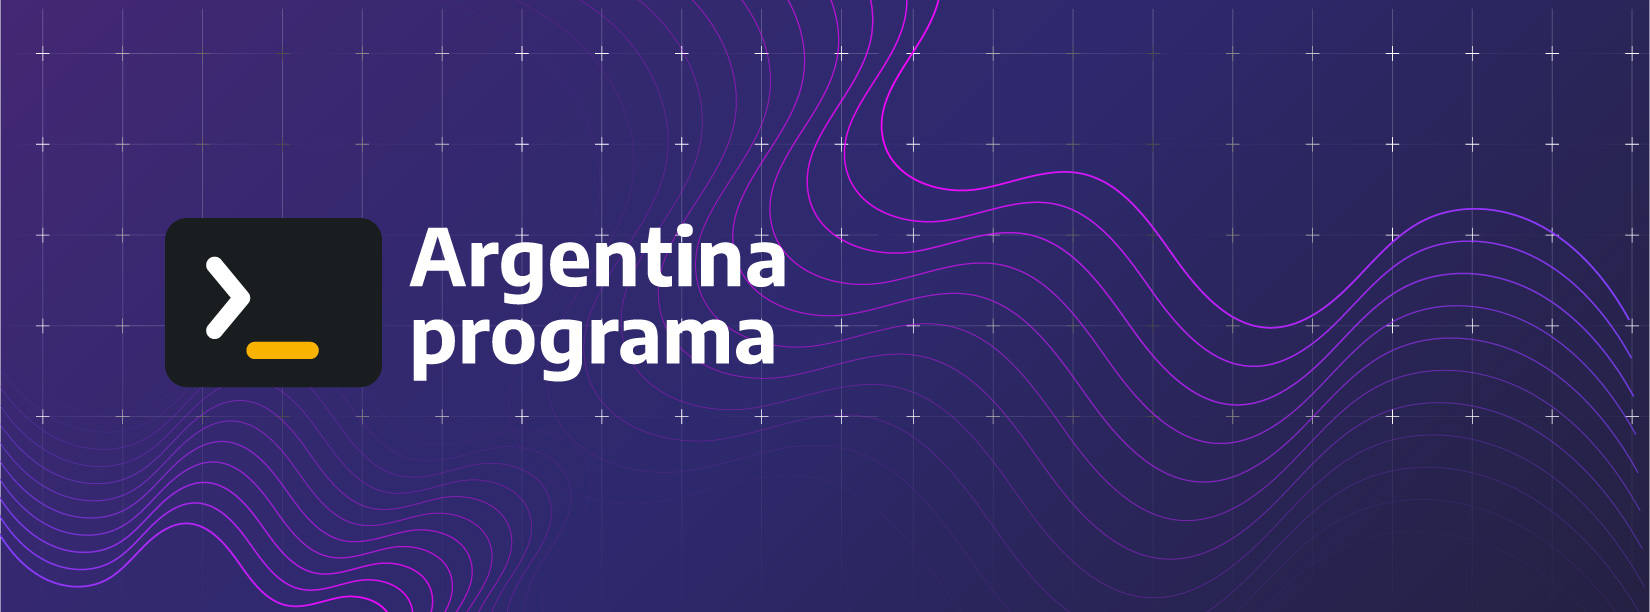
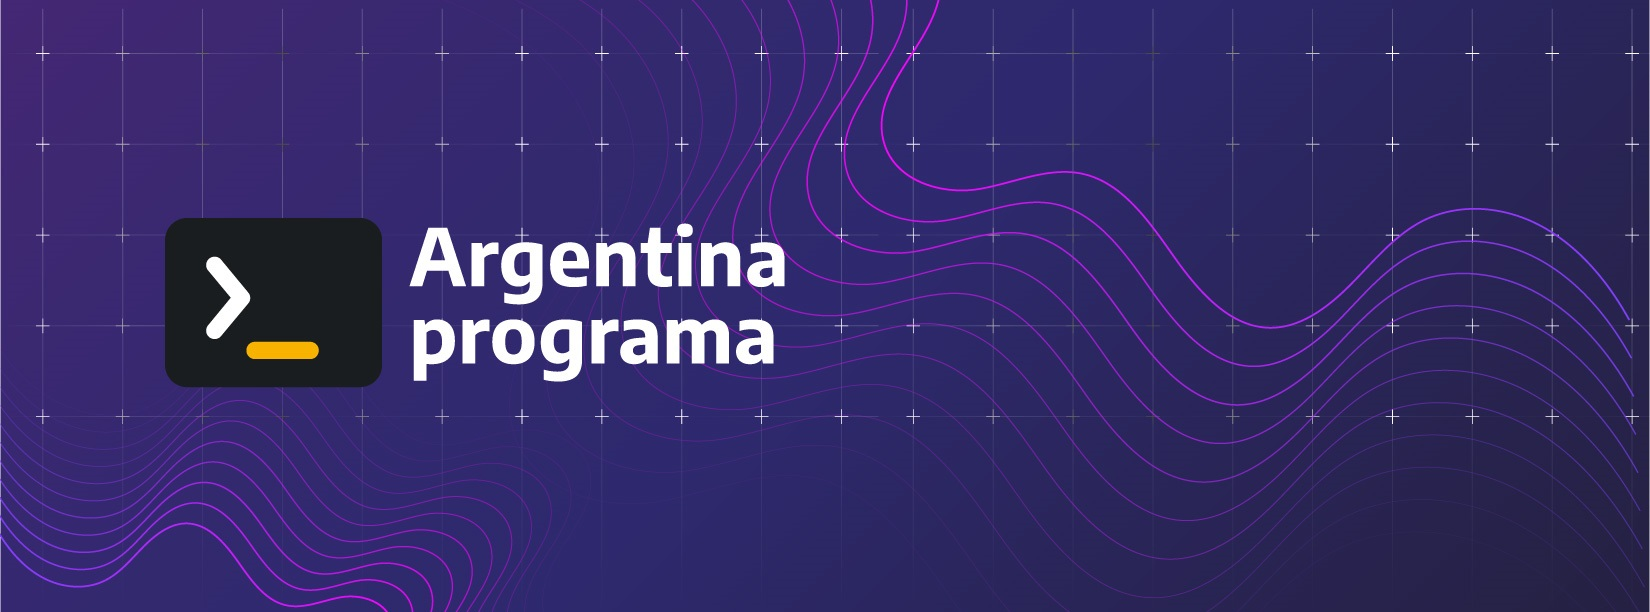
ajustes responsive, 23/12

diff --git a/index.html b/index.html
@@ -9,56 +9,61 @@
     <title>Portfolio Web Oliverio Maranesi</title>
 </head>
 <body>
-    <header>
+  <header>
+      <div class="container-fluid">
+
         <div class="row">
-                <div class="col-6" id="logo">
-                <h4>ARGENTINA PROGRAMA</h4>
-                </div>
+          <div class="col-md-6 col-12" id="logo">
+            <h4>ARGENTINA PROGRAMA</h4>
+          </div>
+          
                 
-                <div class="col-5" id="nav">
-                         <div class="dropdown">
-                        <button class="btn btn-primary btn-sm dropdown-toggle" type="button" data-bs-toggle="dropdown" aria-expanded="false">Mi Portfolio</button>
-                        <ul class="dropdown-menu">
-                            <li><a class="dropdown-item" href="#AcercaDe">Acerca de...</a></li>
-                            <li><a class="dropdown-item" href="#Experiencia">Experiencia laboral</a></li>
-                            <li><a class="dropdown-item" href="#hard&softSkills">hard & soft Skills</a></li>
-                            <li><a class="dropdown-item" href="#Proyectos">Proyectos</a></li>
-                        </div>
-                 
-                        <div class="dropdown">
-                        <button class="btn btn-primary btn-sm dropdown-toggle" type="button" data-bs-toggle="dropdown" aria-expanded="false">CONTACTO</button>
-                        <ul class="dropdown-menu">
-                            <li><a class="dropdown-item" href="#">Mail</a></li>
-                            <li><a class="dropdown-item" href="#">Celular</a></li>
-                            <li><a class="dropdown-item" href="#">WhatsApp</a></li>
-                        </ul>
+          <div class="col-md-6 col-12" id="nav">      
+              <div class="dropdown">
+                    <button class="btn btn-primary btn-sm dropdown-toggle" type="button" data-bs-toggle="dropdown" aria-expanded="false">Mi Portfolio</button>
+                    <ul class="dropdown-menu">
+                        <li><a class="dropdown-item" href="#AcercaDe">Acerca de...</a></li>
+                        <li><a class="dropdown-item" href="#Experiencia">Experiencia laboral</a></li>
+                        <li><a class="dropdown-item" href="#hard&softSkills">hard & soft Skills</a></li>
+                        <li><a class="dropdown-item" href="#Proyectos">Proyectos</a></li>
+                    </ul>
+                  </div>
+                  
+              <div class="dropdown">
+                    <button class="btn btn-primary btn-sm dropdown-toggle" type="button" data-bs-toggle="dropdown" aria-expanded="false">CONTACTO</button>
+                    <ul class="dropdown-menu">
+                        <li><a class="dropdown-item" href="#">Mail</a></li>
+                        <li><a class="dropdown-item" href="#">Celular</a></li>
+                        <li><a class="dropdown-item" href="#">WhatsApp</a></li>
+                      </ul>
                     </div>
-
+                    
                     <div>
-                        <ul class="nav">
-                            <li class="nav-item">
+                      <ul class="nav">
+                        <li class="nav-item">
                                 <a class="nav-link active" aria-current="page" href="login.html" style="color:white">Sign Up</a>
-                            </li>
-                            <li class="nav-item">
-                                <a class="nav-link active" aria-current="page" href="login.html" style="color:white">Sign In</a>
-                            </li>
-                        </ul>
-                        </div>
+                        </li>
+                        <li class="nav-item">
+                          <a class="nav-link active" aria-current="page" href="login.html" style="color:white">Sign In</a>
+                        </li>
+                      </ul>
+                    </div>
+                  </div>
+                  
                 </div>
-
-        </header>
-
-        <section id="banner">
-        <div class="row">
-            <div class="col-12">
-                <img src="banner-ok-argentina-programa.jpg" alt="banner">
-            </div>
+                </header>
+                
+             
+    <section id="banner">
+        <div class="container">
+          <img src="banner-ok-argentina-programa.jpg" alt="banner">
         </div>
+          
     </section>
 
     <section id="AcercaDe">
         <div class="row">
-            <div class="col-6">
+            <div class="col-md-6 col-sm-12">
                 <div class="container my-4 w-100">
 
                     <div id="carouselExampleControls" class="carousel slide" data-ride="carousel">
@@ -68,22 +73,22 @@
                                 <div class="card h-100">
                                     <div class="card-header">
 
-                                        <h5 class="card-title">Card title 1</h5>
+                                        <h5 class="card-title">Acerca de...</h5>
                                     </div>
                                     <img src="abstract-red-fluid-wave-background-free-vector.jpg" class="card-img-top w-100 bg-dark" alt="...">
                                     <div class="card-body">
-                                      <p class="card-text">This is a longer card with supporting text below as a natural lead-in to additional content.</p>
+                                      <p class="card-text">Lorem ipsum dolor sit amet consectetur adipisicing elit. Ipsum libero eveniet eaque earum repellendus</p>
                                     </div>
                                 </div>
                             </div>
                             <div class="carousel-item">
                                 <div class="card h-100">
                                     <div class="card-header">
-                                        <h5 class="card-title">Card title 2</h5>
+                                        <h5 class="card-title">Titulo 2</h5>
                                     </div>
                                     <img src="abstract-red-fluid-wave-background-free-vector.jpg" class="card-img-top w-100" alt="...">
                                     <div class="card-body">
-                                        <p class="card-text">This is a longer card with supporting text below as a natural lead-in to additional content.</p>
+                                        <p class="card-text">Lorem ipsum dolor sit amet consectetur adipisicing elit. Ipsum libero eveniet eaque earum repellendus</p>
                                     </div>
                                         
                                 </div>
@@ -91,11 +96,11 @@
                             <div class="carousel-item">
                                 <div class="card h-100">
                                     <div class="card-header">
-                                        <h5 class="card-title">Card title 3</h5>
+                                        <h5 class="card-title">Titulo 3</h5>
                                     </div>
                                     <img src="abstract-red-fluid-wave-background-free-vector.jpg" class="card-img-top w-100" alt="...">
                                     <div class="card-body">
-                                      <p class="card-text">This is a longer card with supporting text below as a natural lead-in to additional content.</p>
+                                      <p class="card-text">Lorem ipsum dolor sit amet consectetur adipisicing elit. Ipsum libero eveniet eaque earum repellendus</p>
                                     </div>
                                 </div>
                             </div>
@@ -116,7 +121,7 @@
 
 
 
-            <div class="col-6" id="Educacion">
+            <div class="col-md-6 col-sm-12" id="Educacion">
                 <div class="accordion" id="accordionExample">
                     <div class="accordion-item">
                       <h2 class="accordion-header" id="headingOne">

diff --git a/estilos.css b/estilos.css
@@ -2,6 +2,10 @@
     scroll-behavior: smooth;
 }
 
+*{
+    box-sizing: border-box;
+}
+
 
 body{
     width: 100%;
@@ -40,14 +44,20 @@ header h4{
     padding-bottom: 10px;
 }
 
-#banner img{
-    margin: 5px;
-    margin-top: 30px;
-    margin-bottom: 0;
-    padding: 5px;
-    width: 1336px
-    
+.container {
+    width: 100vw;
+    max-width: 1336px;
+    min-width: 320px;
+    margin: auto;
 }
+
+.container img{
+    margin-top: 30px;
+    width: 100%;
+
+}
+
+
 
 #AcercaDe{
     margin:15px;
